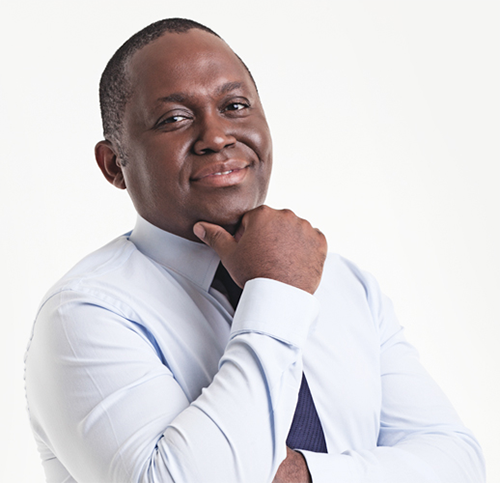
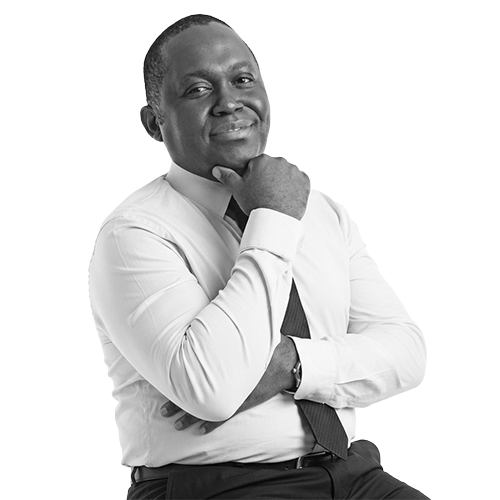
feat(speakers): add Funeka Montjane, Asanda Luwaca, Mmarothi Mathibe, Dr Sishi, Commissioners Ntuli & Nomvungu, Sithembile Ngobese

diff --git a/src/data/speakers.ts b/src/data/speakers.ts
@@ -459,4 +459,46 @@ export const additionalSpeakers: AdditionalSpeaker[] = [
     designation: "Founder & Strategist | Orenda Advisory and Strategy",
     image: "/speakers/Tebogo-Mekgoe.png",
   },
+  {
+    id: "funeka-montjane",
+    name: "Funeka Montjane",
+    designation: "Chief Executive Officer: Personal and Private Banking | Standard Bank Group",
+    image: "/speakers/Funeka-Montjane.png",
+  },
+  {
+    id: "asanda-luwaca",
+    name: "Asanda Luwaca",
+    designation: "Chairperson | The National Skills Authority",
+    image: "/speakers/Asanda-Luwaca.png",
+  },
+  {
+    id: "mmarothi-mathibe",
+    name: "Mmarothi Mathibe",
+    designation: "Programmes Manager | FASSET",
+    image: "/speakers/Mmarothi-Mathibe.png",
+  },
+  {
+    id: "dr-nkosinathi-sishi",
+    name: "Dr Nkosinathi Sishi",
+    designation: "Director-General | Department of Higher Education and Training",
+    image: "/speakers/Dr-Nkosinathi-Sishi.png",
+  },
+  {
+    id: "commissioner-philile-ntuli",
+    name: "Commissioner Philile Ntuli",
+    designation: "Full-time Commissioner | South African Human Rights Commission",
+    image: "/speakers/Commissioner-Philile-Ntuli.png",
+  },
+  {
+    id: "commissioner-mfundo-nomvungu",
+    name: "Commissioner Mfundo Nomvungu",
+    designation: "Acting Chairperson | Commission for Gender Equality (CGE)",
+    image: "/speakers/Commissioner-Mfundo-Nomvungu.png",
+  },
+  {
+    id: "sithembile-ngobese",
+    name: "Sithembile Sefako Ngobese",
+    designation: "Chief Executive Officer | Zooi Consulting",
+    image: "/speakers/Sithembile-Ngobese.png",
+  },
 ];
